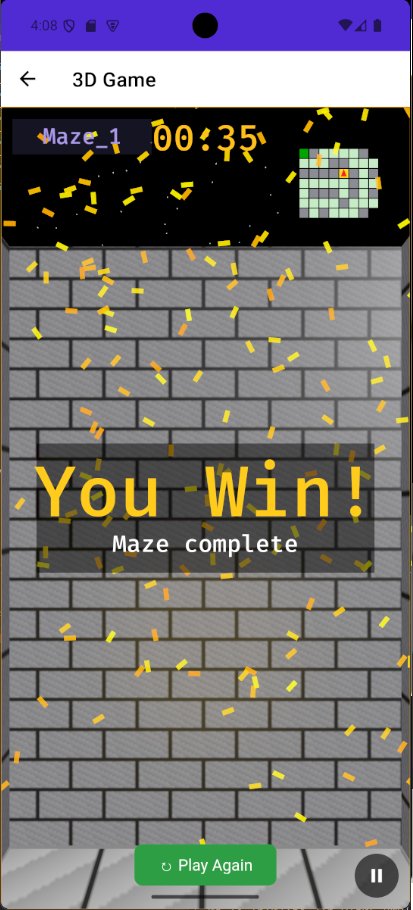
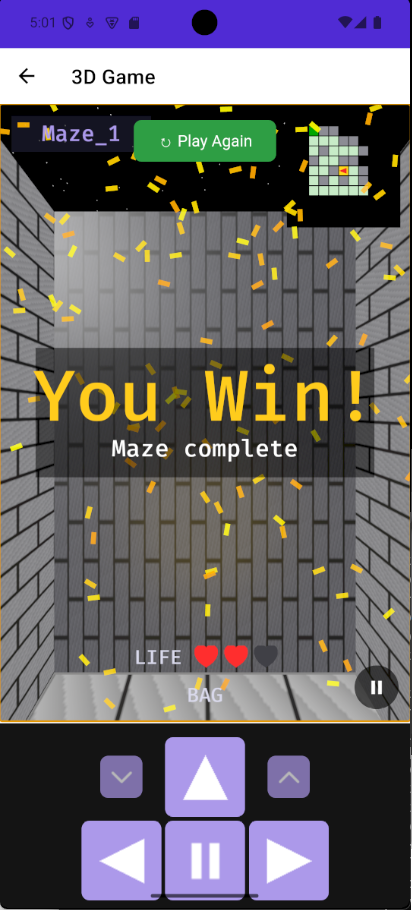
doc: update documentation and screenshots/GIFs

diff --git a/README.md b/README.md
@@ -6,9 +6,9 @@
 [![License: MIT](https://img.shields.io/badge/License-MIT-yellow.svg)](./LICENSE)
 [![Documentation](https://img.shields.io/badge/docs-GitHub%20Pages-blue)](https://budgiedownunder.github.io/maze/)
 
-A multi-language experimental project exploring **Rust**, **C# (.NET 10)**, **React.js**, **TypeScript**, **WebAssembly**, and the **Bevy** game engine. Built around maze generation, solving, and both 2D and **first-person 3D** gameplay, it demonstrates library crates, REST APIs, WASM bindings, OpenAPI, a cross-platform MAUI app, a React.js SPA, Node.js-based API and E2E testing, architecture diagramming with PlantUML, documentation generation with DocFX, and automated CI/CD across Windows, macOS, and Linux.
+A multi-language experimental project exploring **Rust**, **C# (.NET 10)**, **React.js**, **TypeScript**, **WebAssembly**, and the **Bevy** game engine. Built around maze generation, solving, and both 2D and **first-person 3D** gameplay — with collectible keys & doors, real-time chasing enemies, player health, and health pickups — it demonstrates library crates, REST APIs, WASM bindings, OpenAPI, a cross-platform MAUI app, a React.js SPA, Node.js-based API and E2E testing, architecture diagramming with PlantUML, documentation generation with DocFX, and automated CI/CD across Windows, macOS, and Linux.
 
-<img src="./src/rust/maze_game_bevy/screenshots/finish_corridor.png" width="600">
+<img src="./src/react/maze_web_server/screenshots/web-3d-intro.png" width="600">
 
 ## Table of Contents
 - [Introduction](#introduction)
@@ -50,12 +50,12 @@ At this stage, the following areas are covered:
   - Supports OAuth / OIDC sign-in via a pluggable `OAuthConnector` (Google, GitHub and Facebook built-in)
   - Provides email-driven password-reset and email-verification flows, orchestrated through the [`comms`](./src/rust/comms/README.md) crate's pluggable email provider system (currently: Mailgun, SMTP+OAuth2 → Microsoft/GMail) + logging
 
-- Implementing a `React`/`TypeScript` web frontend ([`maze_web_server`](./src/react/maze_web_server/README.md)) that provides a browser-based UI for the `maze_web_server` REST API including maze management, generate, solve, walk solution animation, and interactive maze gameplay (run entirely in-browser via the `maze_wasm` WebAssembly module); OAuth sign-in buttons (Google, GitHub, Facebook) when enabled; user account self-management (sign-up, sign-in, edit profile, manage/verify email addresses, change/forgot/reset password, delete account); Testing with [Vitest](https://vitest.dev/), [React Testing Library](https://testing-library.com/), [Mock Service Worker](https://mswjs.io/), and [Playwright](https://playwright.dev/)
+- Implementing a `React`/`TypeScript` web frontend ([`maze_web_server`](./src/react/maze_web_server/README.md)) that provides a browser-based UI for the `maze_web_server` REST API including maze management, generate, solve, walk solution animation, and interactive maze gameplay — auto-collected keys & doors, real-time enemies, player HP with health pickups, and a pause menu — run entirely in-browser via the `maze_wasm` WebAssembly module; OAuth sign-in buttons (Google, GitHub, Facebook) when enabled; user account self-management (sign-up, sign-in, edit profile, manage/verify email addresses, change/forgot/reset password, delete account); Testing with [Vitest](https://vitest.dev/), [React Testing Library](https://testing-library.com/), [Mock Service Worker](https://mswjs.io/), and [Playwright](https://playwright.dev/)
 
-- Implementing a `C#` [MAUI](https://dotnet.microsoft.com/en-us/apps/maui) application ([`Maze.Maui.App`](./src/csharp/Maze.Maui.App/README.md)) that utilises an underlying Web Assembly interop library ([`Maze.Interop`](./src/csharp/Maze.Interop/README.md)) via a wrapper API ([`Maze.Api`](./src/csharp/Maze.Api/README.md)), with user account self-management (sign-up, sign-in, edit profile, manage/verify email addresses, change/forgot password, delete account); OAuth sign-in (Google, GitHub, Facebook) when enabled; maze management (create, save, delete, rename, edit, generate, solve, walk solution, play)
+- Implementing a `C#` [MAUI](https://dotnet.microsoft.com/en-us/apps/maui) application ([`Maze.Maui.App`](./src/csharp/Maze.Maui.App/README.md)) that utilises an underlying Web Assembly interop library ([`Maze.Interop`](./src/csharp/Maze.Interop/README.md)) via a wrapper API ([`Maze.Api`](./src/csharp/Maze.Api/README.md)), with user account self-management (sign-up, sign-in, edit profile, manage/verify email addresses, change/forgot password, delete account); OAuth sign-in (Google, GitHub, Facebook) when enabled; maze management (create, save, delete, rename, edit, generate, solve, walk solution, play — with keys & doors, real-time enemies, player HP + health pickups, and a pause menu)
 - Automating `C#` API documentation generation with `DocFX`
 
-- Implementing a first-person **3D maze game** in `Rust` using the [`Bevy`](https://bevyengine.org/) engine ([`maze_game_bevy`](./src/rust/maze_game_bevy/README.md)) — PBR rendering, procedural textures, wall decorations,  minimap, camera tilt, gold-leaf rain on win, rain + lightning on lose, dead-end artifacts and touch support + D-pad for mobile
+- Implementing a first-person **3D maze game** in `Rust` using the [`Bevy`](https://bevyengine.org/) engine ([`maze_game_bevy`](./src/rust/maze_game_bevy/README.md)) — PBR rendering, procedural textures, wall decorations,  minimap, camera tilt, gold-leaf rain on win, rain + lightning on lose, dead-end artifacts, auto-collected keys & doors, real-time chasing enemies, a heart-based HP HUD with health pickups, and touch support + D-pad for mobile
 - Compiling the `Bevy` game to WebAssembly ([`maze_game_bevy_wasm`](./src/rust/maze_game_bevy_wasm/README.md)) so the same game runs cross-platform — served at `/game/` by the Rust web server, launched from the React SPA, and embedded in the MAUI app via a `WebView`
 
 - Implementing automated `.NET` API testing with `xUnit` ([`Maze.Interop.Tests`](./src/csharp/Maze.Interop.Tests/README.md))
@@ -91,7 +91,7 @@ The following components are present:
 | `src/rust`                     | [`auth`](./src/rust/auth/README.md)                                           | Authentication library
 |                                | [`comms`](./src/rust/comms/README.md)                                         | Outbound communications library (Email)
 |                                | [`data_model`](./src/rust/data_model/README.md)                               | Data model library
-|                                | [`maze`](./src/rust/maze/README.md)                                           | Maze definition, calculation, and gaming engine library
+|                                | [`maze`](./src/rust/maze/README.md)                                           | Maze definition, calculation, and gameplay engine library
 |                                | [`maze_c`](./src/rust/maze_c/README.md)                                       | Maze C API library
 |                                | [`maze_console`](./src/rust/maze_console/README.md)                           | Maze console application
 |                                | [`maze_game_bevy`](./src/rust/maze_game_bevy/README.md)                       | Bevy-based first-person 3D maze game (library + native binary)
@@ -145,13 +145,13 @@ The maze editor animating a step-by-step walk of the solution path.
 
 **Maze Game**
 
-Playing a maze — the player navigates using keyboard or D-pad, with visited cells marked as they are left.
+Playing a maze — the player navigates using keyboard or D-pad, collecting keys to open doors and evading real-time enemies, with a heart-based HP HUD (health pickups restore HP) and visited cells marked as they are left.
 
 <img src="./src/react/maze_web_server/screenshots/web-game.gif" width="600">
 
 **3D Maze Game**
 
-Playing a maze in first-person 3D — the Bevy engine runs entirely in-browser via WebAssembly.
+Playing a maze in first-person 3D — chasing enemies, collectible keys & doors, and a heart-based HP HUD with health pickups — the Bevy engine runs entirely in-browser via WebAssembly.
 
 <img src="./src/react/maze_web_server/screenshots/web-3d-game.gif" width="600">
 

diff --git a/src/docfx/articles/index.md b/src/docfx/articles/index.md
@@ -19,7 +19,7 @@ The following components are present:
 | `Rust`       | [`auth`](../api/rust/auth/view_content.md)                                     | Authentication library
 |              | [`comms`](../api/rust/comms/view_content.md)                                   | Outbound email communications library
 |              | [`data_model`](../api/rust/data_model/view_content.md)                         | Data model library
-|              | [`maze`](../api/rust/maze/view_content.md)                                     | Maze definition and calculation library
+|              | [`maze`](../api/rust/maze/view_content.md)                                     | Maze definition, calculation, and gameplay engine library
 |              | [`maze_c`](../api/rust/maze_c/view_content.md)                                 | Maze C API library
 |              | [`maze_console`](../api/rust/maze_console/view_content.md)                     | Maze console application
 |              | [`maze_game_bevy`](../api/rust/maze_game_bevy/view_content.md)                 | 3D maze game engine library

diff --git a/src/docfx/api/rust/index.md b/src/docfx/api/rust/index.md
@@ -7,7 +7,7 @@ The `maze` project contains the following `Rust` crates:
 | [`auth`](auth/view_content.md)                                     | Authentication library
 | [`comms`](comms/view_content.md)                                   | Outbound email communications library
 | [`data_model`](data_model/view_content.md)                         | Data model library
-| [`maze`](maze/view_content.md)                                     | Maze definition and calculation library
+| [`maze`](maze/view_content.md)                                     | Maze definition, calculation, and gameplay engine library
 | [`maze_c`](maze_c/view_content.md)                                 | Maze C API library
 | [`maze_console`](maze_console/view_content.md)                     | Maze console application
 | [`maze_game_bevy`](maze_game_bevy/view_content.md)                 | 3D maze game engine library
